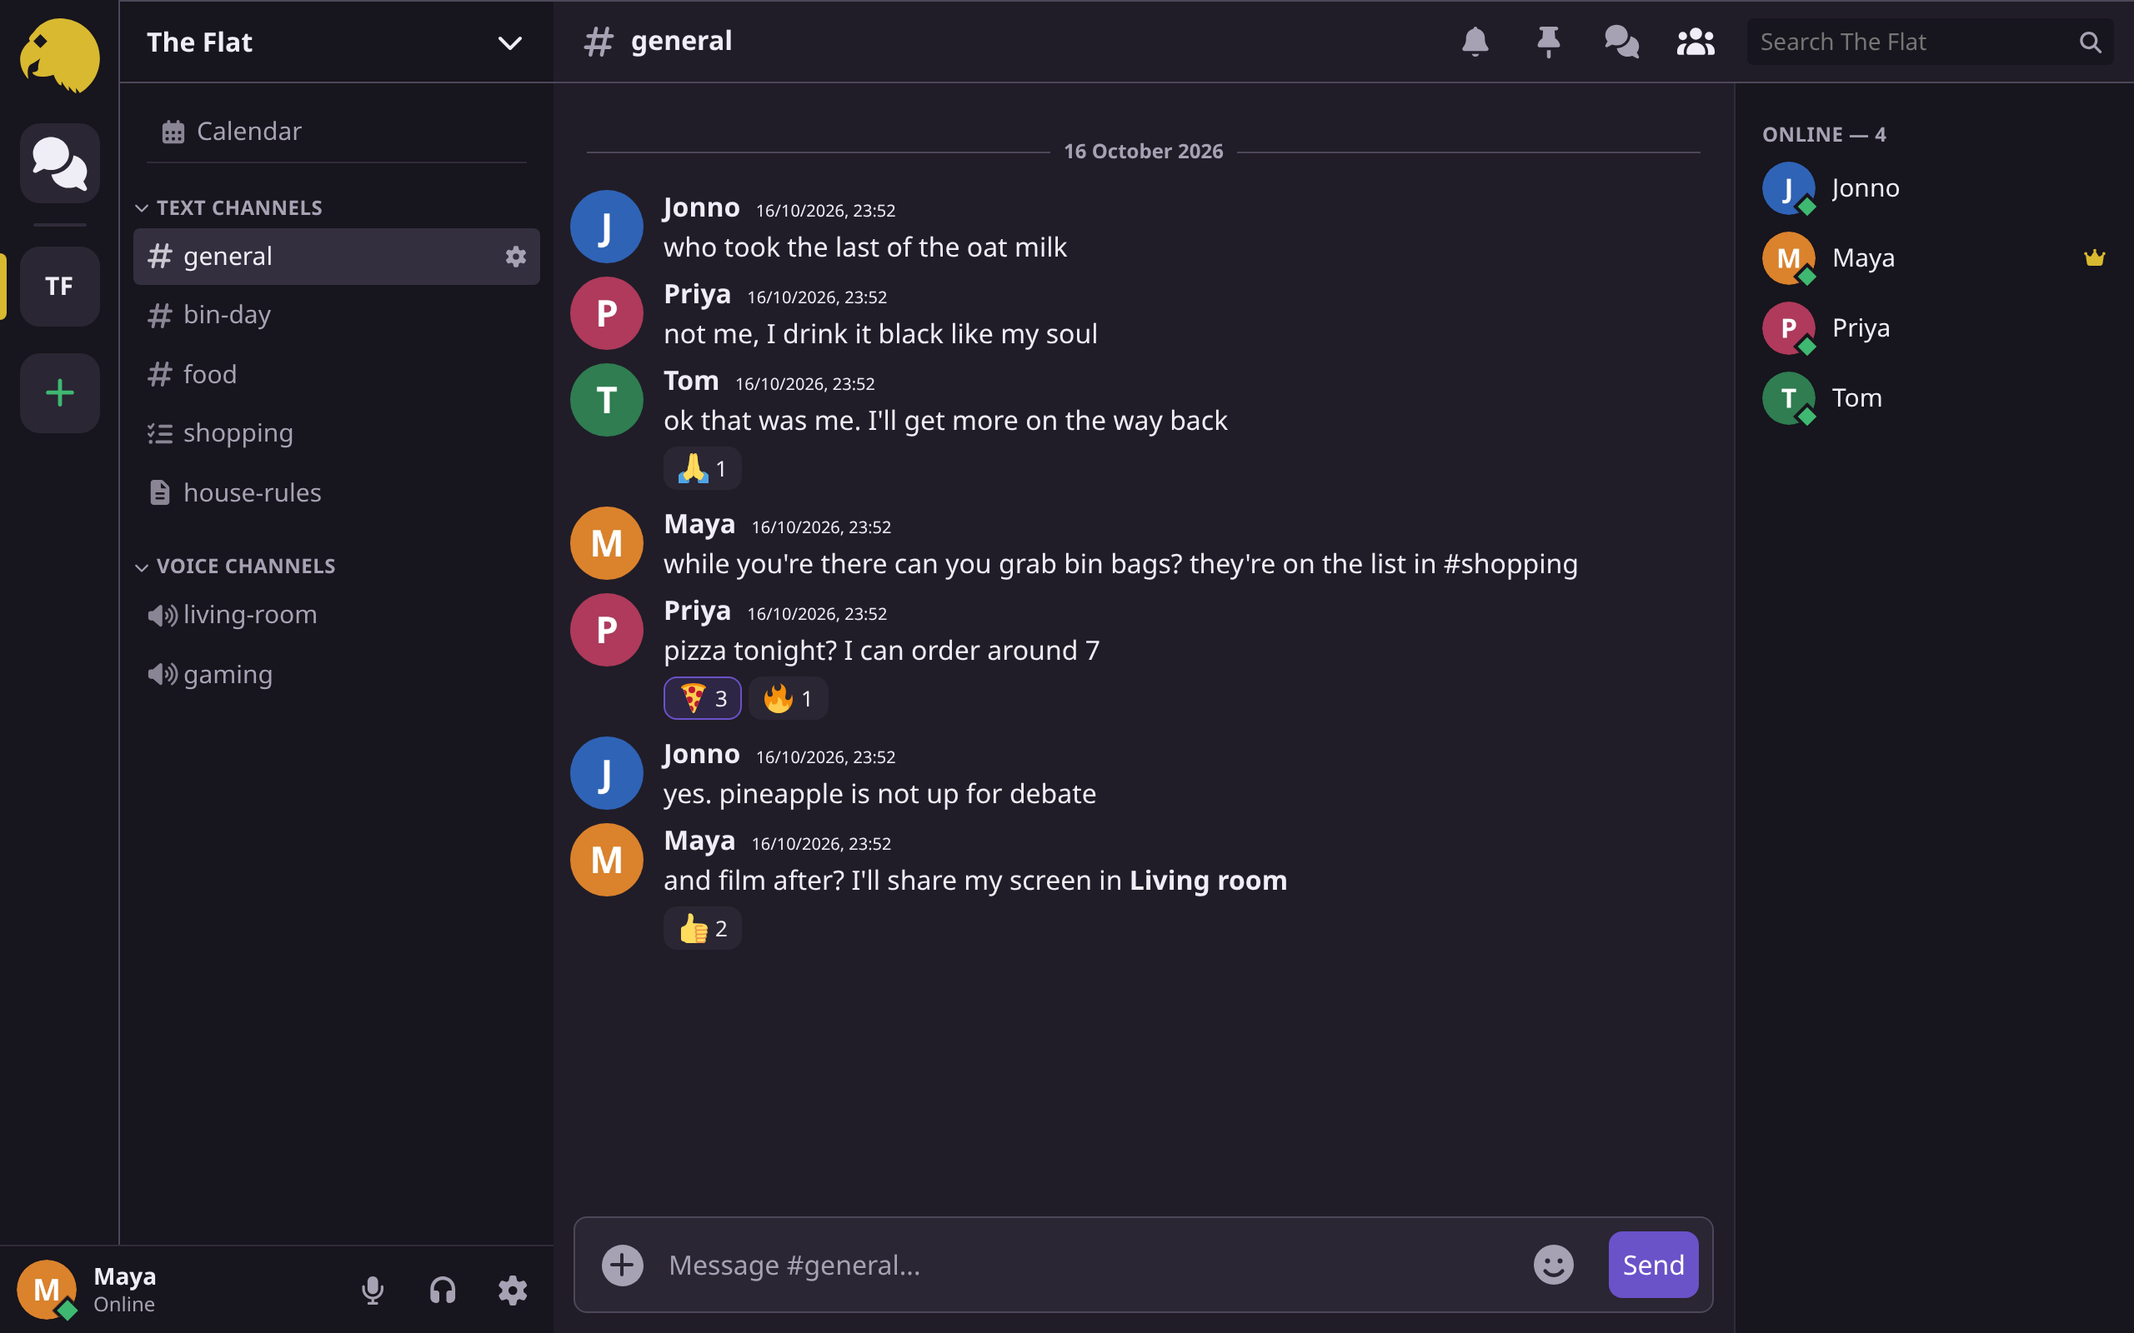
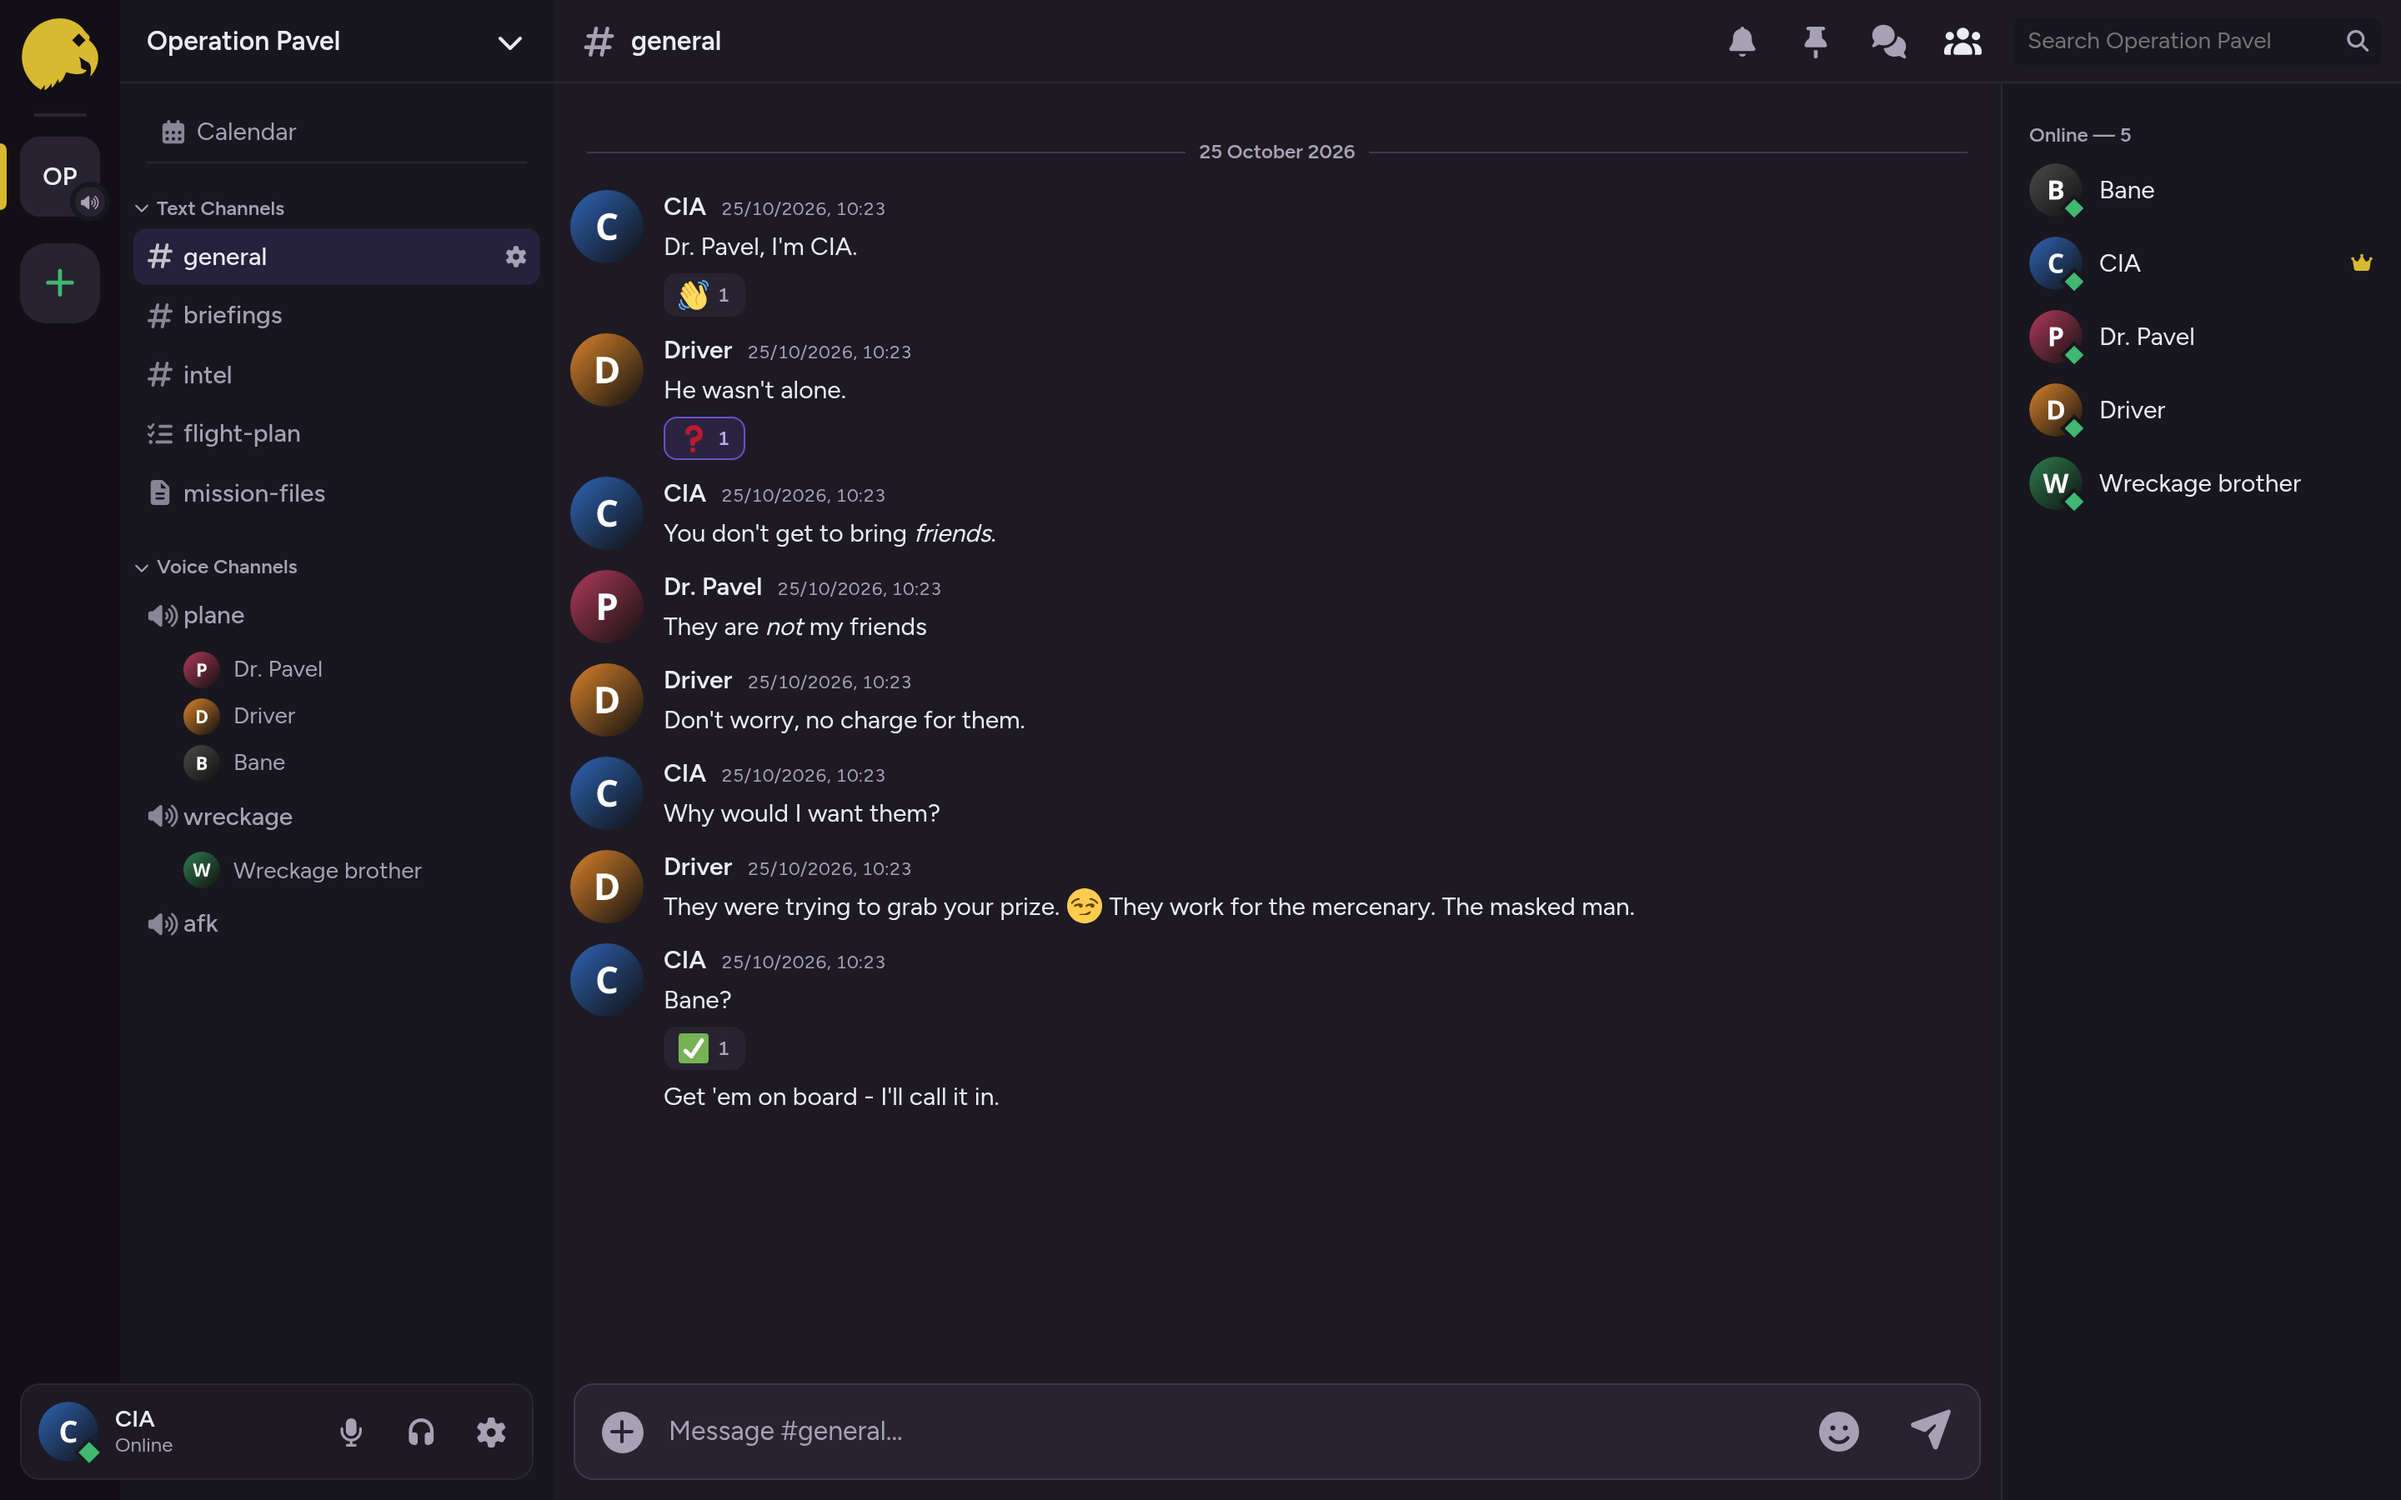
voicaw.com: new pictures of the app (the plane scene guild)
The site's desktop and phone pictures are now #general from e2e/portfolio.mjs, which makes
a fuller made-up guild (chat, list, documents, calendar, voice), an encrypted DM and a light
theme shot, for the site and for portfolios. It replaces e2e/sitescreenshot.mjs.

diff --git a/website/src/index.html b/website/src/index.html
@@ -48,7 +48,7 @@
   </div>
 </header>
 
-<!-- Pictures of the real app: e2e/sitescreenshot.mjs takes them again. -->
+<!-- Pictures of the real app: e2e/portfolio.mjs takes them again. -->
 <figure class="shots">
   <img class="shot-desktop" src="/screenshot-desktop.png" width="1280" height="800"
     alt="Voicaw on a computer: a guild called The Flat, its channel list, and a chat about oat milk and pizza">

diff --git a/e2e/README.md b/e2e/README.md
@@ -131,7 +131,7 @@ node e2e/desktopgamingmode.mjs # the real desktop app under Xvfb (:92, CDP 9342;
 node e2e/richpresence.mjs [dir] # Rich Presence in the real desktop app under Xvfb (:93, CDP 9341; needs the client built for it, as below): stand-in Steam library in its home, a Steam game (SteamAppId) and a Wine .exe connect to discord-ipc-0; Alice sees "Playing …" in Friends, the DM list and the member list, both on the card (Steam's cover at 128 px, details, party, time ticking), a game quitting leaves, Share what I'm playing off closes the socket and clears it, on again; a music player's cover given as a web address (stand-in server) shows at 128 px, asked for once and only by Bob's app
 node e2e/overlay.mjs [dir] # in-game overlay in the real desktop app under Xvfb (:87, CDP 9347; needs the client built for it, as below, and libXtst): in voice with Alice, none until a stand-in Steam game (SteamAppId) runs, then top left at its content's size (both listed, Alice's ring while she talks, the unlock hint), a DM as a toast, Ctrl+Shift+O (XTest) unlocks it over the screen (Mute mutes the app, a corner picked, Escape locks, now bottom right), the game quitting removes it, Settings' toggle (on by default; off keeps it away, on brings it back)
 node e2e/testers.mjs [dir] # voicaw.com's Android test (site built and served on E2E_SITE_PORT, 3106, /api to the API): no APK, phone's first button → form, empty email refused, thanks; the request live in Settings → Admin → Android testers, mark added, remove, then in Show history (added, removed, note), deleted from there; light, dark, phone
-node e2e/sitescreenshot.mjs [dir] # not a check: voicaw.com's pictures of the app (a made-up guild, #general on a computer and a phone, dark), into website/src by default
+node e2e/portfolio.mjs dir # not a check: pictures of the app for voicaw.com and portfolios (a made-up guild and DM: chat, list, documents, calendar, voice, light theme, phone), into dir; the site uses 01-guild-chat and 09-phone-guild-chat as website/src/screenshot-desktop/-phone.png
 node e2e/android.mjs [dir] # Android app page side (stand-in Capacitor bridge): no service worker, Settings → Android App, a new version offered and downloaded on Update, push registration, notification tap, notify.html decrypts a real DM, call: Answer from the notification, ongoing-call notification, its Mute and Hang up
 node e2e/notificationtap.mjs [dir] # tapping a notification opens its chat (stand-in Android and desktop bridges): from another DM, a guild channel, the list, the same chat, Settings; an app started by the tap (the event waiting for the page) opens it, not the latest conversation
 node e2e/notificationclear.mjs [dir] # reading a chat takes its notification down elsewhere: Bob as the desktop app (stand-in bridge) and in a browser; Alice's DM notifies the app, reading it in the browser closes it there and the browser's own (service worker) for that chat only, reading again closes nothing, reading on the app closes it too; Alice's reaction notifies the app, opening the chat in the browser closes it

diff --git a/docs/desktop-and-site.md b/docs/desktop-and-site.md
@@ -417,8 +417,9 @@ icon cards: a big left-aligned headline, real pictures of the app (`screenshot-d
 with `screenshot-phone.png` over its corner; phones see only the phone's), then sections
 with their title on the left under a rule. Its type is Schibsted Grotesk (OFL), served from
 voicaw.com itself (`schibsted-grotesk.woff2`), so no font service sees visitors; the docs and
-policies share it through `style.css`. The pictures are taken by `e2e/sitescreenshot.mjs`
-(a made-up guild in the throwaway app): run it again when the app's look changes.
+policies share it through `style.css`. The pictures are taken by `e2e/portfolio.mjs`
+(a made-up guild in the throwaway app; its `01-guild-chat.png` and `09-phone-guild-chat.png`):
+run it again when the app's look changes.
 
 **Android: Google Play's closed test** (2026-10-06). The Android row, and the button phone
 visitors get first, lead to the page's `#android-test` section: how to join, links to the test's
